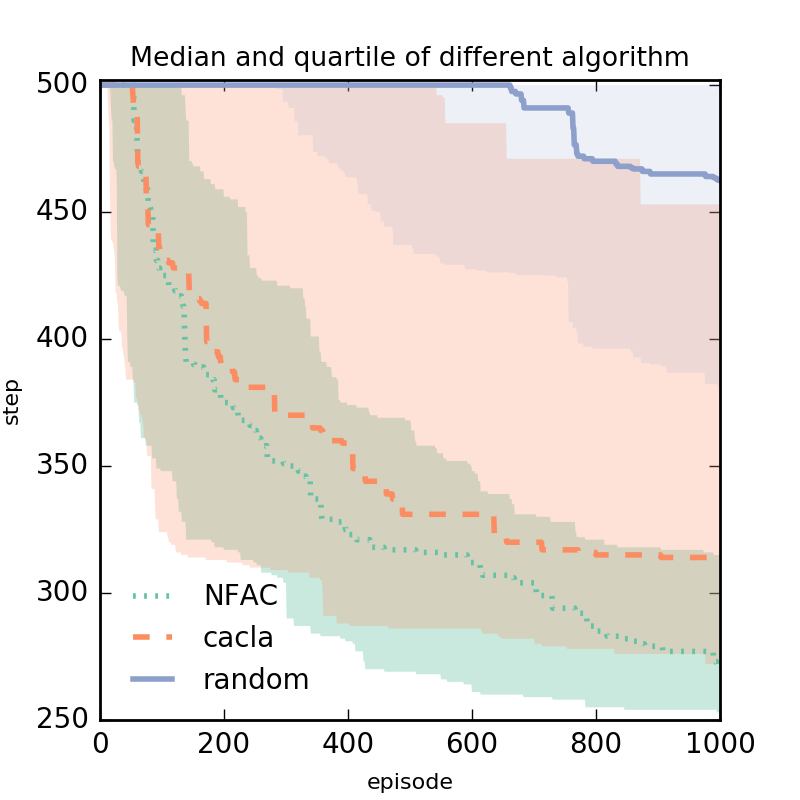
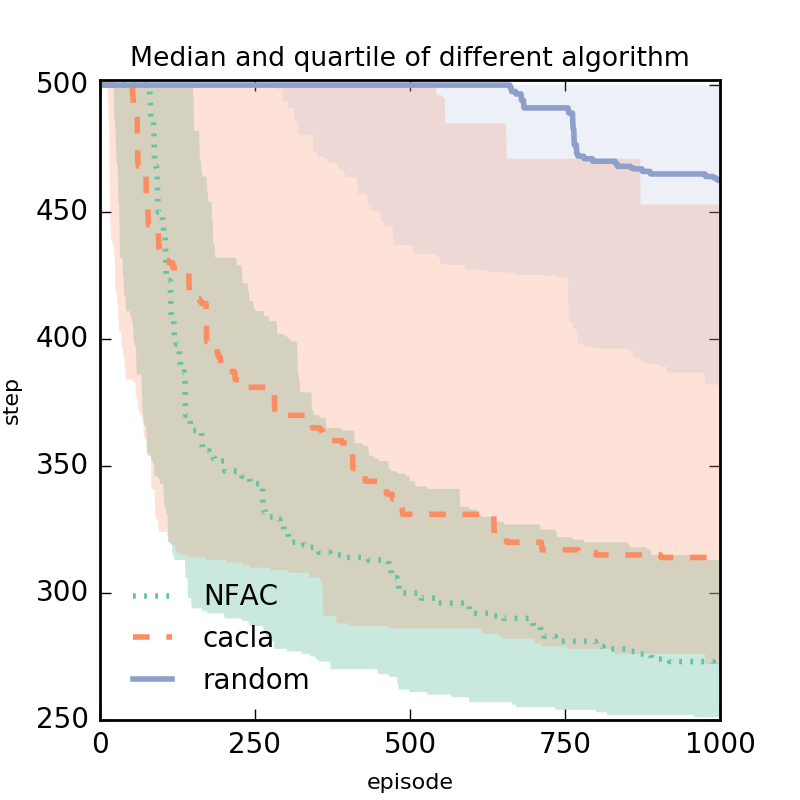
graphs

diff --git a/esann2016/plotting/plot_perf_cartpole.py b/esann2016/plotting/plot_perf_cartpole.py
@@ -31,10 +31,10 @@ def perc(data):
         perc_75[i] = np.percentile(data[:, i], 75)
     return median, perc_25, perc_75
 
-data_rand = load('../result_data/adacrobot/cl-off.perf.data')
-data_human = load('../result_data/adacrobot/cl-on.perf.data') 
-data_bootstrap = load('../result_data/adacrobot/random.perf.data')
-data_cma = load('../result_data/adacrobot/cmaes.perf.data')
+data_rand = load('../result_data/cartpole/cl-off.perf.data')
+data_human = load('../result_data/cartpole/cl-on.perf.data') 
+data_bootstrap = load('../result_data/cartpole/random.perf.data')
+data_cma = load('../result_data/cartpole/cmaes.perf.data')
 #data_power = load('power.data')
 
 
@@ -66,6 +66,7 @@ ax.fill_between(x_data_bootstrap, perc_25_bootstrap[x_data_bootstrap], perc_75_b
 #ax.fill_between((lx), perc_25_cma[x], perc_75_cma[x], alpha=0.25, linewidth=0, color=colors[3])
 
 
+
 ax.plot((lx), med_rand[lx], linewidth=2, linestyle=':', color=colors[0])
 ax.plot((lx), med_human[lx], linewidth=2, linestyle='--', color=colors[1])
 #ax.plot(lx, med_power[lx], linewidth=2, linestyle='-.', color=colors[3])
@@ -73,20 +74,21 @@ ax.plot(lx_data_bootstrap, med_bootstrap[lx_data_bootstrap], linewidth=2, linest
 
 #ax.plot((lx), med_cma[lx], linewidth=2, linestyle='-', color=colors[3])
 
+
 # change xlim to set_xlim
 
 #ax.invert_yaxis()
-ax.set_ylim(250, 502)
+ax.set_ylim(0, 502)
 #ax.set_xscale('log')
 #ax.set_yscale('log')
 #ax.set_xlim(128, 1e6)
-ax.set_xlim(0, 1000)
+ax.set_xlim(0, 3000)
 
 #change xticks to set_xticks
-ax.set_xticks(np.arange(0, 1001, 250))
+ax.set_xticks(np.arange(0, 3001, 750))
 #ax.set_yticks(np.arange(0, 25, 4))
 
-legend = ax.legend(["NFAC", "cacla" , "random"], loc=3);
+legend = ax.legend(["NFAC", "cacla" , "random"], loc=2);
 legend.set_frame_on(False)
 frame = legend.get_frame()
 frame.set_facecolor('1.0')
@@ -98,5 +100,5 @@ ax.set_axisbelow(True)
 ax.set_xlabel("episode")
 ax.set_ylabel("step")
 
-fig.savefig('../result_plotting/adacrobot-1ddl_perf.png', dpi=200)
+fig.savefig('../result_plotting/cartpole_perf.png', dpi=200)
 

diff --git a/esann2016/result_data/gen_data_adacrobot.m b/esann2016/result_data/gen_data_adacrobot.m
@@ -2,6 +2,7 @@ X_on = load_dirs('../data/acrobot-1ddl/cacla-on/', 'learning.data', 4, 1, 1);
 X_off = load_dirs('../data/acrobot-1ddl/cacla-off/', 'learning.data', 4,1, 1);
 X_rand = load_dirs('../data/acrobot-1ddl/random/', 'learning.data', 4, 1, 1);
 
+
 save adacrobot/cl-on.goal.data X_on
 save adacrobot/cl-off.goal.data X_off
 save adacrobot/random.goal.data X_rand
@@ -9,10 +10,12 @@ save adacrobot/random.goal.data X_rand
 X_on = load_dirs('../data/acrobot-1ddl/cacla-on/', 'learning.data', 6, 1, 0);
 X_off = load_dirs('../data/acrobot-1ddl/cacla-off/', 'learning.data', 6,1, 0);
 X_rand = load_dirs('../data/acrobot-1ddl/random/', 'learning.data', 6, 1, 0);
+X_cma = load_dirs('../data/acrobot-1ddl/cmaes/', 'learning.data', 6, 1, 0);
 
 save adacrobot/cl-on.perf.data X_on
 save adacrobot/cl-off.perf.data X_off
 save adacrobot/random.perf.data X_rand
+save adacrobot/cmaes.perf.data X_cma
 
 %plotMedianQ(X_on, 'r')
 %plotMedianQ(X_off, 'y')

diff --git a/esann2016/tex/exp.tex b/esann2016/tex/exp.tex
@@ -2,19 +2,27 @@
 \subsection{Acrobot}
 \mytodo{MZ}{describe env}
 
+% \begin{figure}[h]
+% 	\begin{center}
+% 		\includegraphics{result_plotting/adacrobot-1ddl.png}
+% 		\caption{..}
+% 		\label{image:adacrobot}
+% 	\end{center}
+% \end{figure}
+
 \begin{figure}[h]
 	\begin{center}
-		\includegraphics{result_plotting/adacrobot-1ddl.png}
-		\caption{..}
-		\label{image:adacrobot}
+		\includegraphics{result_plotting/adacrobot-1ddl_perf.png}
+		\caption{Acrobot}
+		\label{image:adacrobot_perf}
 	\end{center}
 \end{figure}
 
 \begin{figure}[h]
 	\begin{center}
-		\includegraphics{result_plotting/adacrobot-1ddl_perf.png}
-		\caption{..}
-		\label{image:adacrobot_perf}
+		\includegraphics{result_plotting/cartpole_perf.png}
+		\caption{Cartpole}
+		\label{image:cartpole_perf}
 	\end{center}
 \end{figure}
 

diff --git a/esann2016/result_data/gen_data_cartpole.m b/esann2016/result_data/gen_data_cartpole.m
@@ -1,0 +1,10 @@
+X_on = load_dirs('../data/cartpole/cacla-on/', 'learning.data', 6, 1, 1);
+X_off = load_dirs('../data/cartpole/cacla-off/', 'learning.data', 6,1, 1);
+X_rand = load_dirs('../data/cartpole/random/', 'learning.data', 6, 1, 1);
+X_cma = load_dirs('../data/cartpole/cmaes/', 'learning.data', 6, 1, 1);
+
+save cartpole/cl-on.perf.data X_on
+save cartpole/cl-off.perf.data X_off
+save cartpole/random.perf.data X_rand
+save cartpole/cmaes.perf.data X_cma
+
